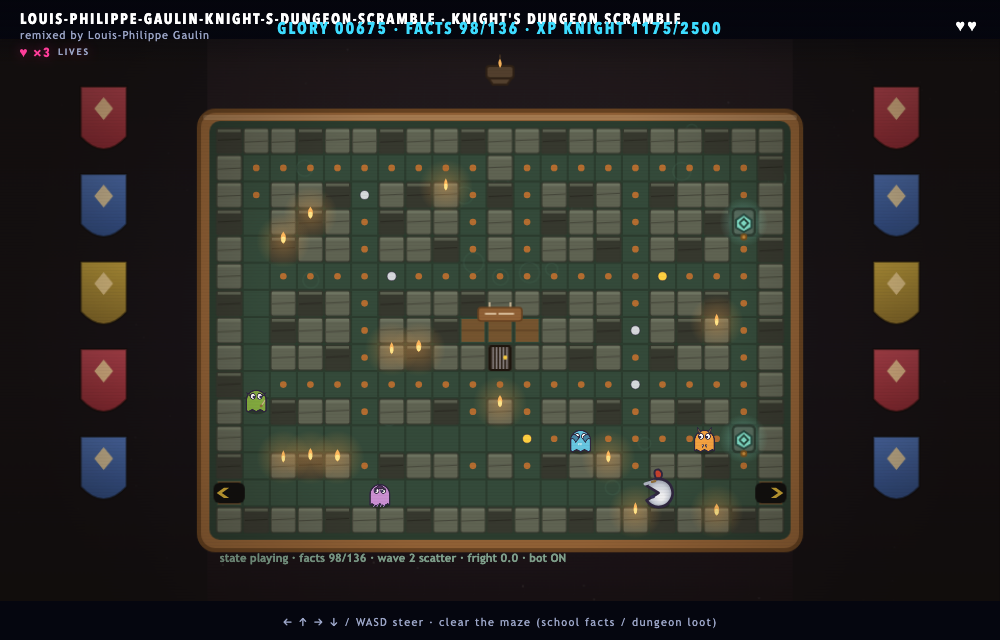
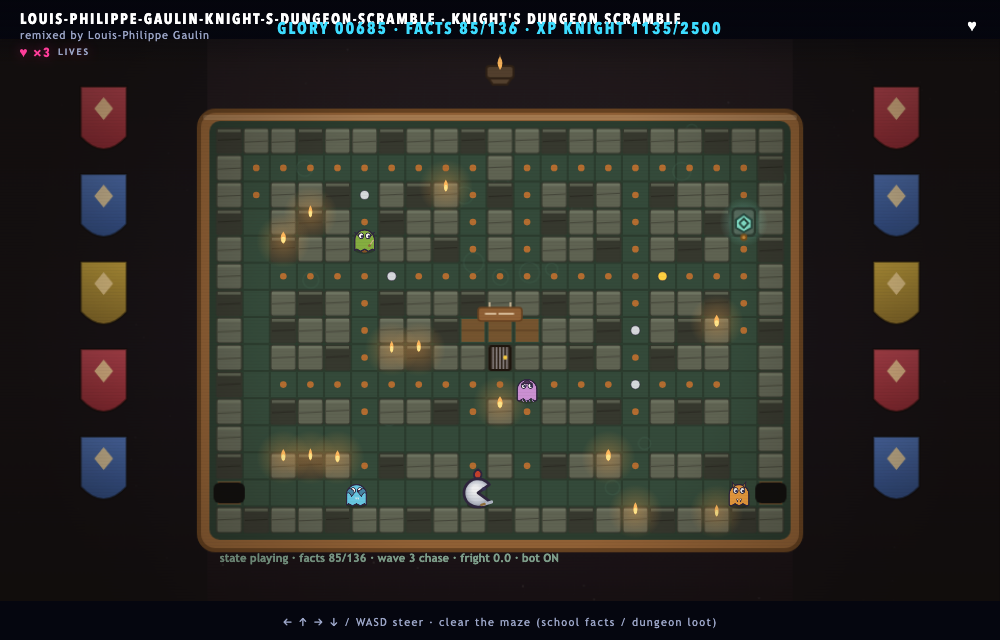
prototype(issue-8): starvation escalation + food-aware dodge (NOT converged — soak still fails)
Post-cap prototype state after 5 fix rounds (see E2E report on PR #42):
- the facts=98 hard barrier is broken (bot reaches facts 85-90)
- residual: a later-pocket stall (facts 85) + 2-3 deaths/run (gate <= 1)
Branch kept as the mechanism reference for the follow-up issue; not for merge.

diff --git a/src/genres/maze.js b/src/genres/maze.js
@@ -363,6 +363,27 @@ export function create(level, api) {
   // exact on fractional tile positions (fx floats, issue #8)
   const wdx = (a, b) => { const d = Math.abs(a - b); return Math.min(d, COLS - d); };
   const inTunnelRow = (r) => tunnelRows.includes(r);
+  // steps-to-nearest-uneaten-dot field over corridors (multi-source BFS) —
+  // lets the starving autopilot dodge TOWARD food instead of into a pocket
+  const foodField = () => {
+    const dist = new Map();
+    let q = [];
+    for (const k in dots) if (!dots[k].got) { dist.set(k, 0); q.push(k); }
+    let d = 0;
+    while (q.length) {
+      const layer = q; q = []; d++;
+      for (const k of layer) {
+        const ci = k.indexOf(","), c = +k.slice(0, ci), r = +k.slice(ci + 1);
+        for (const dd of TIE) {
+          const nc = wrapC(c + dd.x), nr = r + dd.y, nk = nc + "," + nr;
+          if (dist.has(nk) || !corridorPass(nc, nr)) continue;
+          dist.set(nk, d);
+          q.push(nk);
+        }
+      }
+    }
+    return dist;
+  };
   const isPen = (c, r) => r >= 0 && r < ROWS && kind[wrapC(c) + "," + r] === " " && !inTunnelRow(r);
   const corridorPass = (c, r) => { // shared by player + roaming ghosts + eyes' BFS
     if (r < 0 || r >= ROWS) return false;
@@ -728,6 +749,14 @@ export function create(level, api) {
     // THROUGH the wrap tunnel must read as 2, not ~19
     const near = threats.filter((g) => wdx(g.fx, P.fx) + Math.abs(g.fy - P.fy) <= 4);
     const minD = threats.length ? Math.min(...threats.map((g) => wdx(g.fx, P.fx) + Math.abs(g.fy - P.fy))) : 99;
+    // starvation clock (issue #8 follow-up): seconds since the bot last ate —
+    // drives the escalation that breaks pursuit-starvation freezes
+    if (G.facts !== BOT.lastFacts) { BOT.lastFacts = G.facts; BOT.starve = 0; } else BOT.starve += dt;
+    const starving = BOT.starve > 6;
+    // hysteresis on the plan/evade boundary: a chaser patrolling right at the
+    // threshold used to flip the bot between plan and evade every ~0.2 s, and
+    // each flip is a mid-tile reversal, so no move ever completed
+    if (minD <= 2) BOT.ev = true; else if (minD >= 3) BOT.ev = false;
     // issue #8 follow-up (E2E of PR #42): the evade reflex used to hijack the
     // WHOLE <= 4 band at 60 Hz, cancelling the planner's committed routes
     // whenever a chaser hovered nearby — the bot never finished a food
@@ -735,17 +764,49 @@ export function create(level, api) {
     // Survival reflex now owns only the immediate-danger band (<= 2, matching
     // studyhall's priority order); the shadow/guard-aware planner owns
     // 2 < d <= 4 at its paced cadence.
-    if (near.length && G.fright <= 0 && minD <= 2) { // evade: maximize min distance to threats
-      let best = null, bd = -Infinity;
+    if (BOT.ev && near.length && G.fright <= 0) { // evade: max-min (hysteresis on <= 2, off >= 3)
+      BOT.route = null; // danger: abandon any committed plan
+      if (starving && (BOT.foodT === undefined || G.t - BOT.foodT > 0.1)) { BOT.foodT = G.t; BOT.food = foodField(); }
+      const cands = [];
       for (const d of TIE) {
         const nc = wrapC(P.fx + d.x), nr = P.fy + d.y;
         if (!corridorPass(nc, nr)) continue;
         let m = Infinity;
         for (const g of near) m = Math.min(m, wdx(g.fx, nc) + Math.abs(g.fy - nr));
-        if (m > bd) { bd = m; best = d; }
+        cands.push({ d, m, f: (starving && BOT.food) ? (BOT.food.get(wrapC(nc) + "," + nr) ?? 999) : 0 });
+      }
+      let bd = -Infinity;
+      for (const c of cands) if (c.m > bd) bd = c.m;
+      let best = null, bf = Infinity;
+      for (const c of cands) {
+        if (c.m < bd - (starving ? 0.75 : 0)) continue; // while starving: near-max-safety directions may trade 0.75 for food
+        if (best === null || c.f < bf || (c.f === bf && c.m > bd)) { bf = c.f; best = c.d; }
       }
       if (best) { P.want = best; return; }
     }
+    if (G.fright > 0) BOT.route = null; // power-pellet state re-plans freely
+    // issue #8 follow-up (E2E of PR #42): the movement layer resets BOT.t on
+    // every tile arrival (stepPlayer), so the planner re-ran at every tile;
+    // with the tunnel-mouth blocked-set flickering (roaming threats toggling
+    // tunnel-hot/shadow), consecutive re-plans gave contradictory first steps
+    // (up / back down / wrap-around) and the bot never finished a food
+    // approach — the facts=98 freeze. Commit to the planned route instead:
+    // follow it tile-by-tile and replan only on hard block, exhaustion, or
+    // the immediate-danger reflex above.
+    const go = (path) => { if (path && path.length) { const pc = wrapC(Math.round(P.fx)), pr = Math.round(P.fy); const t0 = path[0]; let dx = t0.c - pc, dy = t0.r - pr; if (dx > 1) dx = -1; else if (dx < -1) dx = 1; if (dy > 1) dy = -1; else if (dy < -1) dy = 1; const d = TIE.find((v) => v.x === dx && v.y === dy); if (d) { P.want = d; return true; } } return false; };
+    const followRoute = () => {
+      const rt = BOT.route;
+      if (!rt || !rt.length) { BOT.route = null; return false; }
+      while (rt.length && Math.abs(wrapC(rt[0].c) - P.fx) < 0.5 && Math.abs(rt[0].r - P.fy) < 0.5) rt.shift();
+      if (!rt.length) { BOT.route = null; return false; }
+      if (wdx(rt[0].c, P.fx) + Math.abs(rt[0].r - P.fy) > 1.6) { BOT.route = null; return false; }
+      if (!corridorPass(wrapC(rt[0].c), rt[0].r)) { BOT.route = null; return false; }
+      let m = Infinity; // per-cell safety floor: don't follow into a closing threat
+      for (const g of threats) m = Math.min(m, wdx(g.fx, rt[0].c) + Math.abs(g.fy - rt[0].r));
+      if (m < 2.5) { BOT.route = null; return false; } // per-cell safety floor
+      return go([rt[0]]);
+    };
+    if (BOT.route && followRoute()) return;
     if (BOT.t > 0 && P.want) return;
     BOT.t = 0.1;
     const blocked = new Set();
@@ -779,15 +840,18 @@ export function create(level, api) {
         if (wdx(g.fx, c) + Math.abs(g.fy - tr) <= 5) blocked.add(c + "," + tr);
     }
     const pass = (c, r) => corridorPass(c, r) && !blocked.has(c + "," + r);
-    const go = (path) => { if (path && path.length) { const t0 = path[0]; let dx = t0.c - P.fx, dy = t0.r - P.fy; if (dx > 1) dx = -1; else if (dx < -1) dx = 1; if (dy > 1) dy = -1; else if (dy < -1) dy = 1; dx = dx >= 0.5 ? 1 : dx <= -0.5 ? -1 : 0; dy = dy >= 0.5 ? 1 : dy <= -0.5 ? -1 : 0; const d = TIE.find((v) => v.x === dx && v.y === dy); if (d) { P.want = d; return true; } } return false; };
     if (G.fright > 1.5) { // hunt pale staff for credit
       const fg = ghosts.filter((g) => g.fright && !g.eaten && (g.phase === "roam" || g.phase === "exit"));
-      if (fg.length && go(bfs(P.fx, P.fy, (t) => fg.some((g) => g.fx === t.c && g.fy === t.r), pass))) return;
+      if (fg.length && go(bfs(wrapC(Math.round(P.fx)), Math.round(P.fy), (t) => fg.some((g) => g.fx === t.c && g.fy === t.r), pass))) return;
     }
-    if (go(bfs(P.fx, P.fy, (t) => { const d = dots[t.c + "," + t.r]; return d && d.apple && !d.got; }, pass))) return; // runes/apples
-    if (go(bfs(P.fx, P.fy, (t) => { const d = dots[t.c + "," + t.r]; return d && !d.got; }, pass))) return;       // nearest loot
-    if (threats.every((g) => wdx(g.fx, P.fx) + Math.abs(g.fy - P.fy) > 3)) // raw fallback only when no threat is breathing down the neck (toroidal — issue #8)
-      if (go(bfs(P.fx, P.fy, (t) => { const d = dots[t.c + "," + t.r]; return d && !d.got; }, corridorPass))) return;
+    { const ap = bfs(wrapC(Math.round(P.fx)), Math.round(P.fy), (t) => { const d = dots[t.c + "," + t.r]; return d && d.apple && !d.got; }, pass);
+      if (go(ap)) { BOT.route = ap; return; } } // runes/apples
+    { const lp = bfs(wrapC(Math.round(P.fx)), Math.round(P.fy), (t) => { const d = dots[t.c + "," + t.r]; return d && !d.got; }, pass);
+      if (go(lp)) { BOT.route = lp; return; } }                                   // nearest loot
+    if (starving || threats.every((g) => wdx(g.fx, P.fx) + Math.abs(g.fy - P.fy) > 3)) { // raw fallback (toroidal gate — issue #8); unconditionally available while starving (progress beats the freeze)
+      const rp = bfs(wrapC(Math.round(P.fx)), Math.round(P.fy), (t) => { const d = dots[t.c + "," + t.r]; return d && !d.got; }, corridorPass);
+      if (go(rp)) { BOT.route = rp; return; }
+    }
     // cornered: no route — still pick the move that maximizes distance to the nearest threat
     {
       let best = null, bd = -Infinity;
